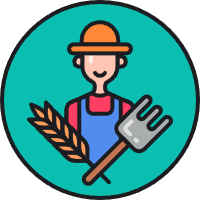
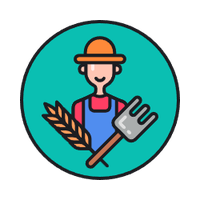
fix: 统一插件图标尺寸与留白规范

diff --git a/AGENTS.md b/AGENTS.md
@@ -24,6 +24,10 @@ MoviePilot V2 自用插件仓库。
 - `package.v2.json` 必须登记插件元数据：name/description/labels/version/icon/author/level/history
 - 插件版本变更时同步更新 `__init__.py` 的 `plugin_version` 和 `package.v2.json` 的 version + history
 - 插件间协作通过 `EventType.PluginAction` 事件，避免硬依赖其他插件模块
+- 插件图标统一放在根目录 `icons/`，使用 PNG + RGBA 透明背景，画布固定为 `200×200`
+- 图标主体应在画布内保持水平、垂直居中，建议有效内容控制在约 `160×160`，四周预留约 `20px` 安全边距，避免宿主按 `48×48` 容器显示时过度放大
+- 图标主体比例可按业务图形保留，不强制裁成正方形；窄图形应通过画布留白保持视觉居中，不得通过拉伸填满画布
+- 修改或新增图标后检查：文件尺寸为 `200×200`、模式为 `RGBA`、存在透明边距
 - 提交前 `python3 -c "import ast; ast.parse(open('<file>').read())"` 校验语法
 - MP 本地调试：`moviepilot` CLI，后端 http://127.0.0.1:7300
 

diff --git a/plugins.v2/AGENTS.md b/plugins.v2/AGENTS.md
@@ -17,3 +17,9 @@ MoviePilot V2 专用插件目录；每个子目录是独立插件实现，元数
 - `siterefresh/`: 站点 Cookie/UA 自动刷新插件。
 - `tanglottery/`: 不可躺自动抽奖助手，本地修正版增强定时服务注册稳定性。
 - `strmmanage/`: 云盘 STRM 管理插件。
+
+## 图标规范
+- 图标资源统一使用根目录 `icons/` 下的 PNG 文件，并通过 `plugin_icon` 与 `package.v2.json` 的 `icon` 引用。
+- 画布固定为 `200×200`，使用 RGBA 透明背景；主体建议控制在约 `160×160`，四周保留约 `20px` 安全边距。
+- 主体必须水平、垂直居中；保留业务图形原始比例，不得通过拉伸填满画布。窄图形通过透明留白保持视觉居中。
+- 新增或修改后，检查尺寸、RGBA 模式和透明边距。
